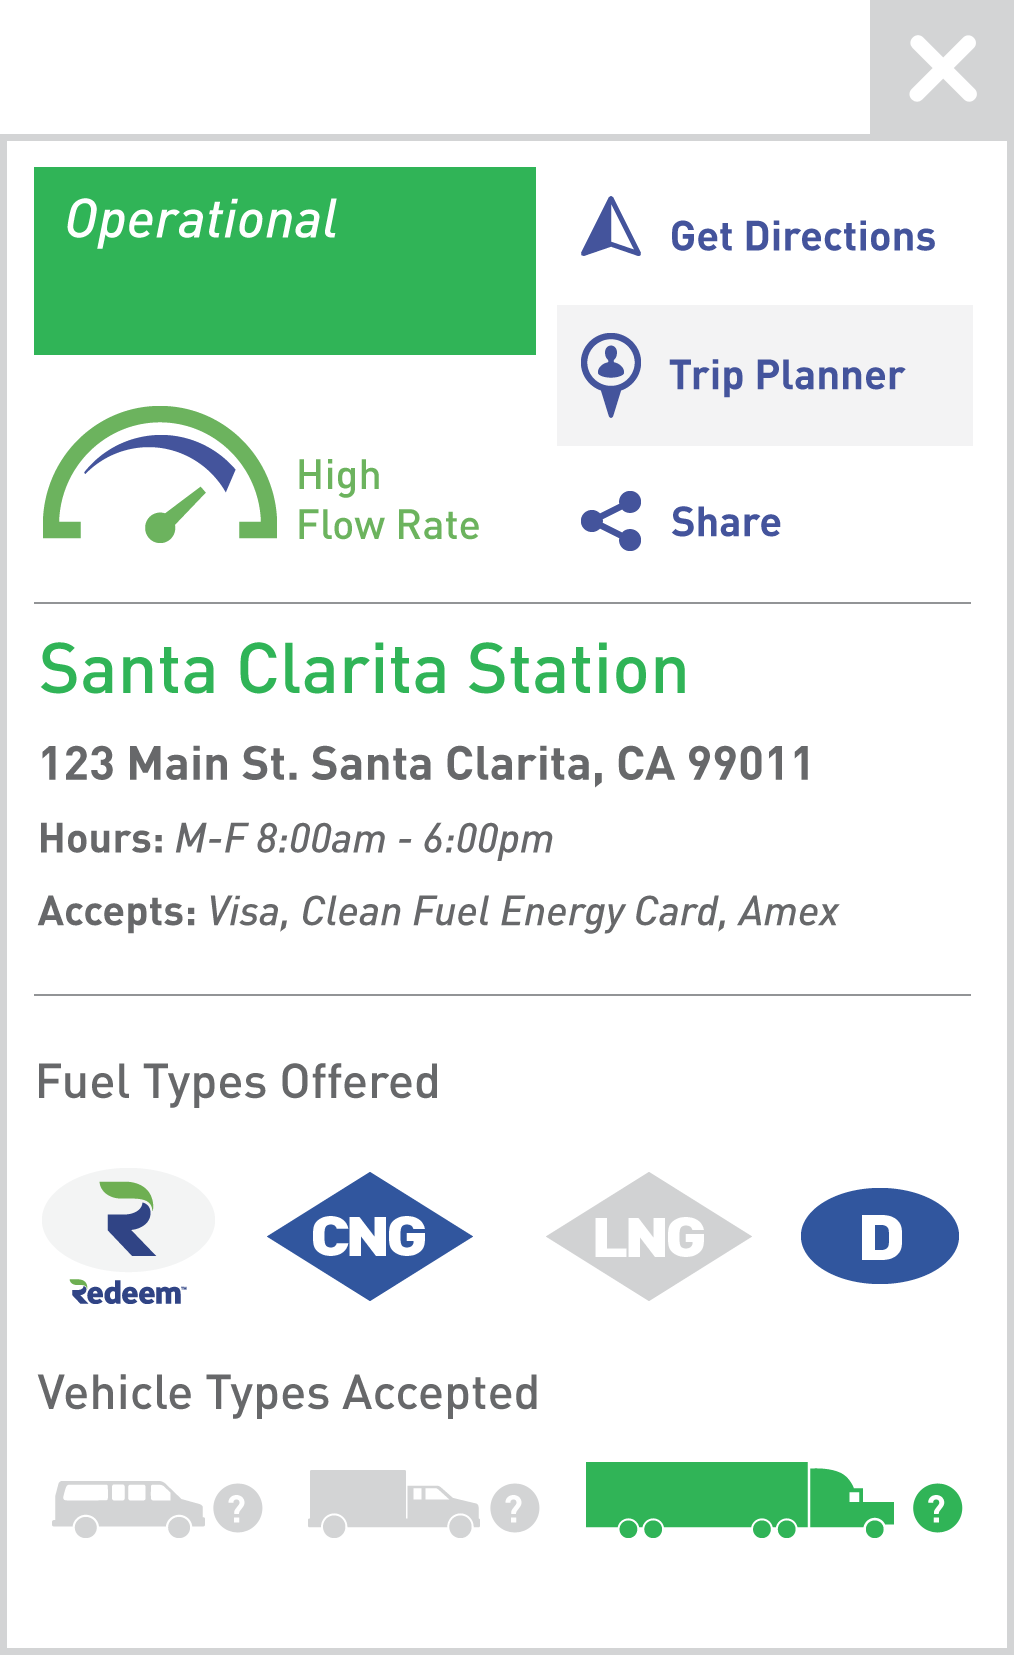
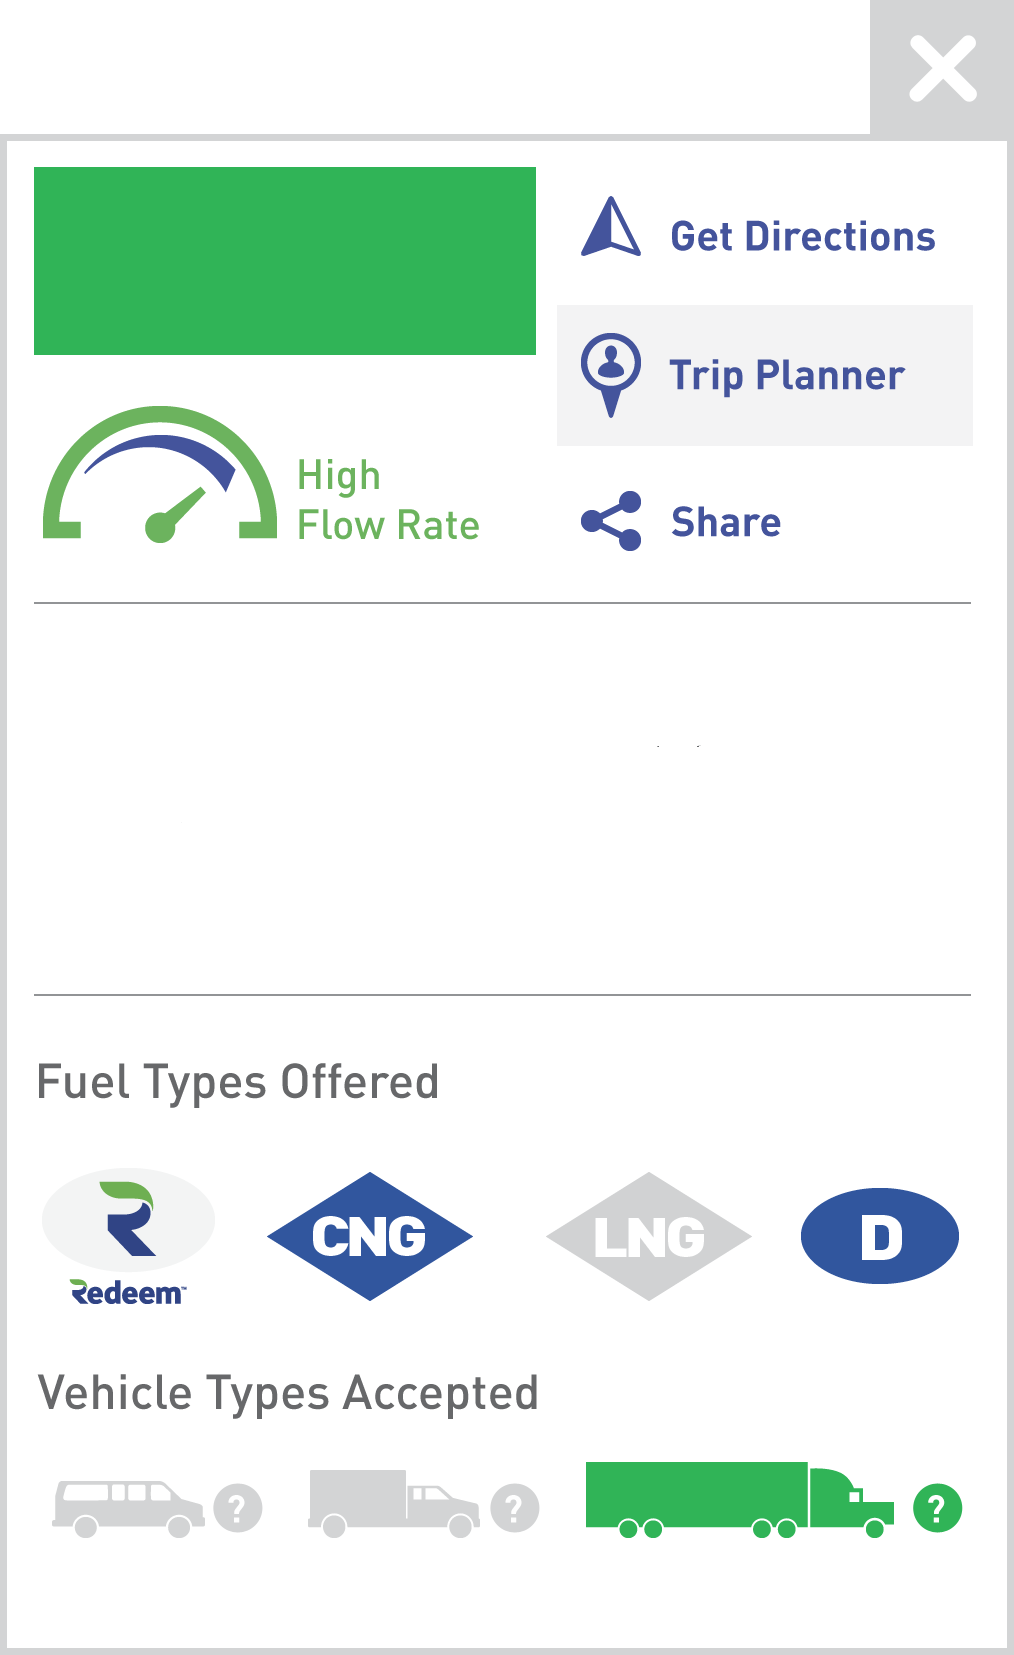
upd visual for popups

Changed region(s): [[0.0306, 0.3698, 0.7949, 0.5855], [0.0611, 0.1233, 0.3363, 0.1541], [0.7337, 0.5239, 0.8254, 0.5547]]

diff --git a/www/js/view/panel/SearchPanel.js b/www/js/view/panel/SearchPanel.js
@@ -48,16 +48,17 @@ Ext.define('App.view.SearchPanel', {
                 }
             },{
                 id:'tripPlaner',
-                style:'position:absolute;width:315px;height:165px;background-color:#FFF;top:0px;color: #999;font-weight:bold;',
-                html:'<div id="tp-title">Trip Planer</div><input id="tp-start-point" type="text" placeholder="Start Point">'
-                    +'<input id="tp-end-point" type="text" placeholder="End Point"><div id="tp-add">Add destination</div>'
-                    +'<div id="tp-build">Build Trip</div><div id="tp-clear">Clear Trip</div><div id="tp-close">Close</div>',
+                style:'position:absolute;width:315px;background-color:#FFF;top:0px;color: #999;font-weight:bold;',
+                html:'<div id="tp-title">Trip Planer</div><img id="tp-close" src="img/popup-close-button.png" >'
+                    +'<input id="tp-start-point" type="text" placeholder="Start Point"><input id="tp-center-point" type="text" placeholder="End Point">'
+                    +'<input id="tp-end-point" type="text" placeholder="End Point"><div id="tp-add"><img src="img/icons-add.png" style="float: left; padding-right:20px;">Add destination</div>'
+                    +'<div id="tp-build"><img src="img/icons-trip.png" style="float: left; padding-right:20px;">Build Trip</div><div id="tp-clear"><img src="img/icons-close.png" style="float: left; padding-right:20px;">Clear Trip</div>',
                 listeners: {
                     tap: {
                         fn: function( e, node ) {
                             var parent = Ext.getCmp('searchPanel');
                             if (node.id=="tp-add") {
-
+                                parent.addPoint();
                             } else if (node.id=="tp-build") {
                                 parent.buildTrip();
                             } else if (node.id=="tp-clear") {
@@ -123,6 +124,9 @@ Ext.define('App.view.SearchPanel', {
         var start = document.getElementById('tp-start-point');
         var searchBox = new google.maps.places.SearchBox( (start) );
 
+        var center = document.getElementById('tp-center-point');
+        var searchBox = new google.maps.places.SearchBox( (center) );
+
         var end = document.getElementById('tp-end-point');
         var searchBox = new google.maps.places.SearchBox( (end) );
 
@@ -135,6 +139,11 @@ Ext.define('App.view.SearchPanel', {
     hideTripPlaner: function() {
         Ext.getCmp('tripPlaner').hide();
 //        Ext.getCmp('tripPlaner').setStyle('width:0px;height:0px');
+    },
+
+    addPoint: function() {
+        Ext.get("tp-center-point").setStyle({'visibility':'visible'});
+        Ext.get("tp-center-point").setStyle({'height':'35px'});
     },
 
     buildTrip: function() {

diff --git a/www/js/view/panel/InfoPopup.js b/www/js/view/panel/InfoPopup.js
@@ -10,8 +10,9 @@ Ext.define('App.view.InfoPopup' ,{
                 cls:'info-popup-zoom',
                 style:'position:absolute;width:100%;height:100%;background-color:rgba(0,0,0,.6);top:0px;left:0px;',
                 html:'<div style="position:absolute;width:100%;height:100%;background-image: url(img/popup-station-info.png);background-size: 300px 490px;background-position: center center;background-repeat: no-repeat;">'
-                    +'<div id="stationName" style="background-color: #FFF;overflow:hidden;height:24px;position:absolute;left:50%;margin-left:-140px;top:50%;margin-top:-60px;width:280px;color:#30b457"></div>'
-                    +'<div id="stationAddress" style="background-color: #FFF;overflow:hidden;height:84px;position:absolute;left:50%;margin-left:-140px;top:50%;margin-top:-35px;width:280px;color:#67686a;font-weight:bold;"></div>'
+                    +'<div id="stationName" style="overflow:hidden;height:24px;position:absolute;left:50%;margin-left:-140px;top:50%;margin-top:-60px;width:280px;color:#30b457"></div>'
+                    +'<div id="stationName" style="position:absolute;left:50%;margin-left:-135px;top:50%;margin-top:-190px;color:#fff;font-style: italic;fony-size:30px;font-weight: normal">Operational</div>'
+                    +'<div id="stationAddress" style="overflow:hidden;height:84px;position:absolute;left:50%;margin-left:-140px;top:50%;margin-top:-35px;width:280px;color:#67686a;font-weight:bold;"></div>'
                     +'<div style="position: absolute;top:50%;margin-top: -195px;left: 50%;margin-left: 15px"><div id="goDirect"></div><div id="goPlanner"></div><div id="goShare"></div></div></div>',
                 listeners: {
                     tap: {

diff --git a/www/css/app.css b/www/css/app.css
@@ -434,24 +434,27 @@ input::-webkit-input-placeholder {
 }
 
 #tp-start-point {
-    padding-left: 10px; border: none;border-bottom: 1px solid #666;margin: 0px 5px 0px 5px;height: 35px;width:305px;
+    padding-left: 10px; border: none;border-bottom: 1px solid #666;margin: 10px 5px 0px 5px;height: 35px;width:305px;
+}
+#tp-center-point {
+    padding-left: 10px; border: none;border-bottom: 1px solid #666;margin: 10px 5px 0px 5px;height: 0px;width:305px;visibility: hidden;
 }
 #tp-end-point {
-    padding-left: 10px; border: none;border-bottom: 1px solid #666;margin: 0px 5px 0px 5px;height: 35px;width:305px;
+    padding-left: 10px; border: none;border-bottom: 1px solid #666;margin: 10px 5px 0px 5px;height: 35px;width:305px;
 }
 
 
 #tp-add {
-    font-size: 14px;margin: 20px 0px 0px 20px;float: left;width:160px;cursor: pointer;
+    font-size: 14px;margin-bottom:5px;padding: 25px 0px 15px 20px;width:250px;cursor: pointer;
 }
 #tp-build {
-    font-size: 14px;margin: 20px 0px 0px 30px;cursor: pointer;
+    font-size: 14px;margin-bottom:5px;padding: 15px 0px 15px 20px;width:250px;cursor: pointer;
 }
 #tp-clear {
-    font-size: 14px;margin: 10px 0px 0px 20px;float: left;width:160px;cursor: pointer;
+    font-size: 14px;margin-bottom:5px;padding: 15px 0px 15px 20px;width:250px;cursor: pointer;
 }
 #tp-close {
-    font-size: 14px;margin: 10px 0px 0px 30px;cursor: pointer;
+    position:absolute;width:40px;top:0px;right:0px;
 }
 
 #goDirect {

diff --git a/www/js/view/panel/MenuPanel.js b/www/js/view/panel/MenuPanel.js
@@ -88,7 +88,7 @@ Ext.define('App.view.MenuPanel' ,{
     initialize: function() {
         Ext.getCmp('menuPanel').closeMenu();
         setTimeout(function(){
-//            Ext.get('mapviewBtn').setVisible(false);
+            Ext.get('mapviewBtn').setVisible(false);
         },500)
     },
     openMenu: function() {
